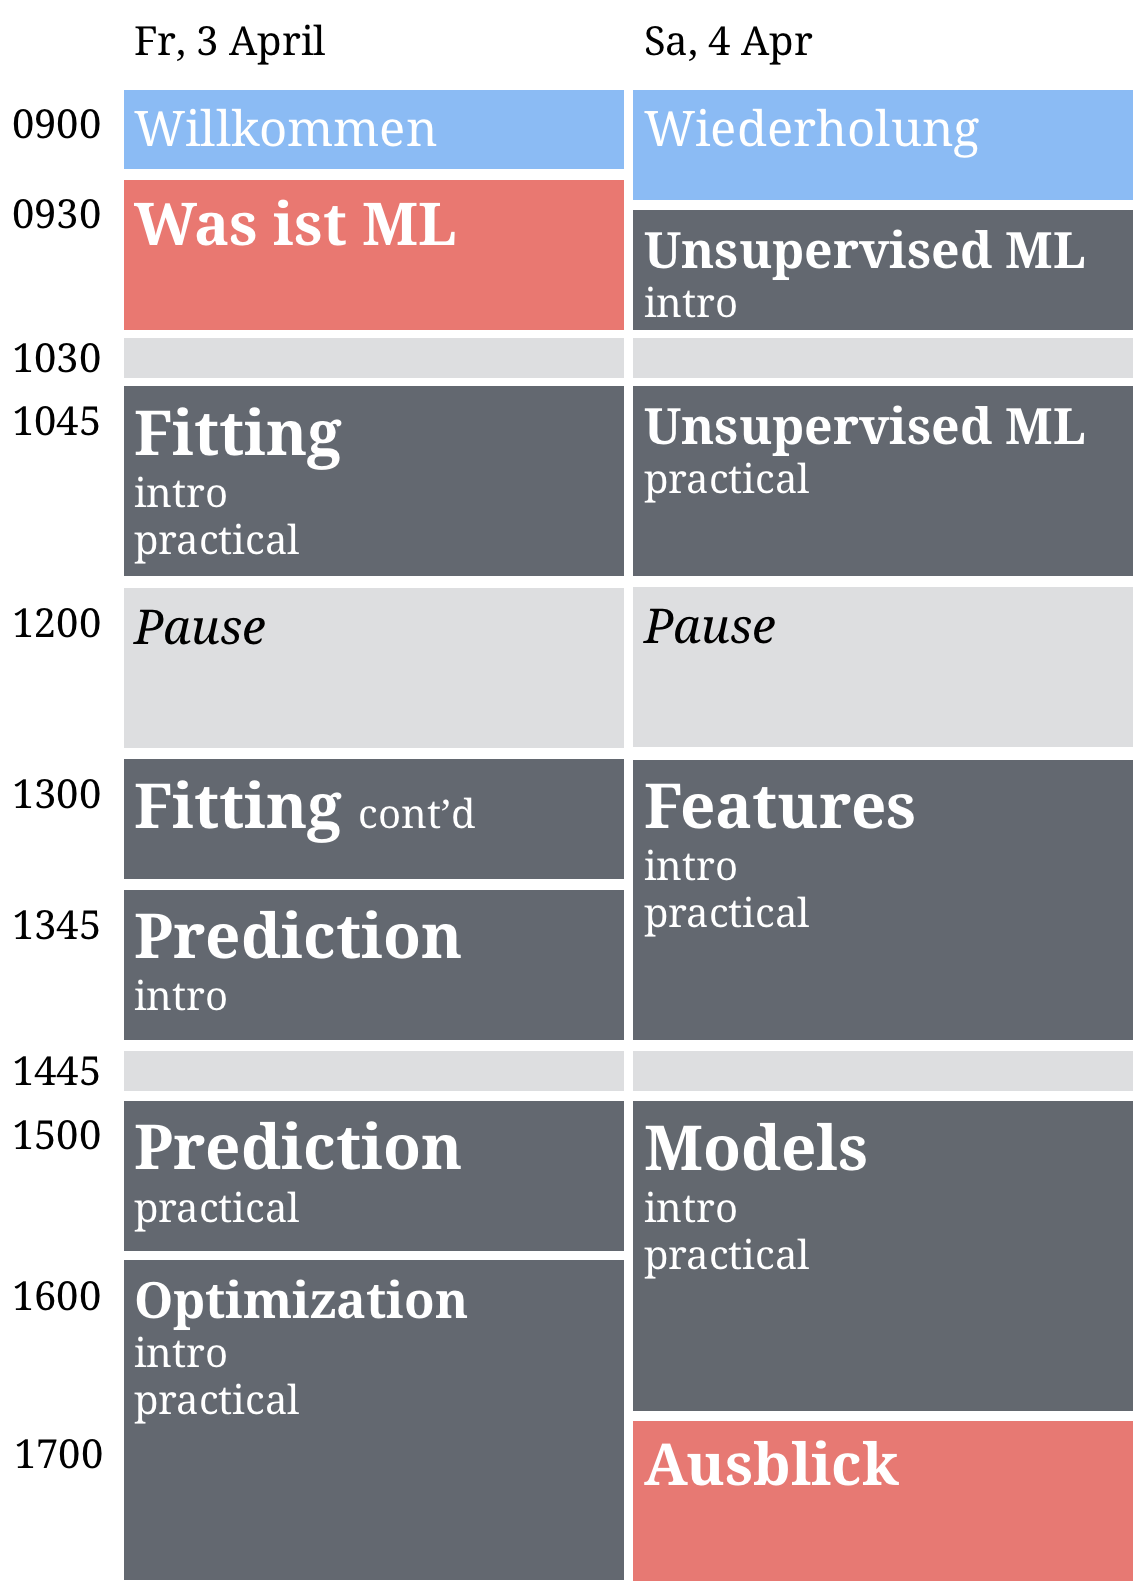
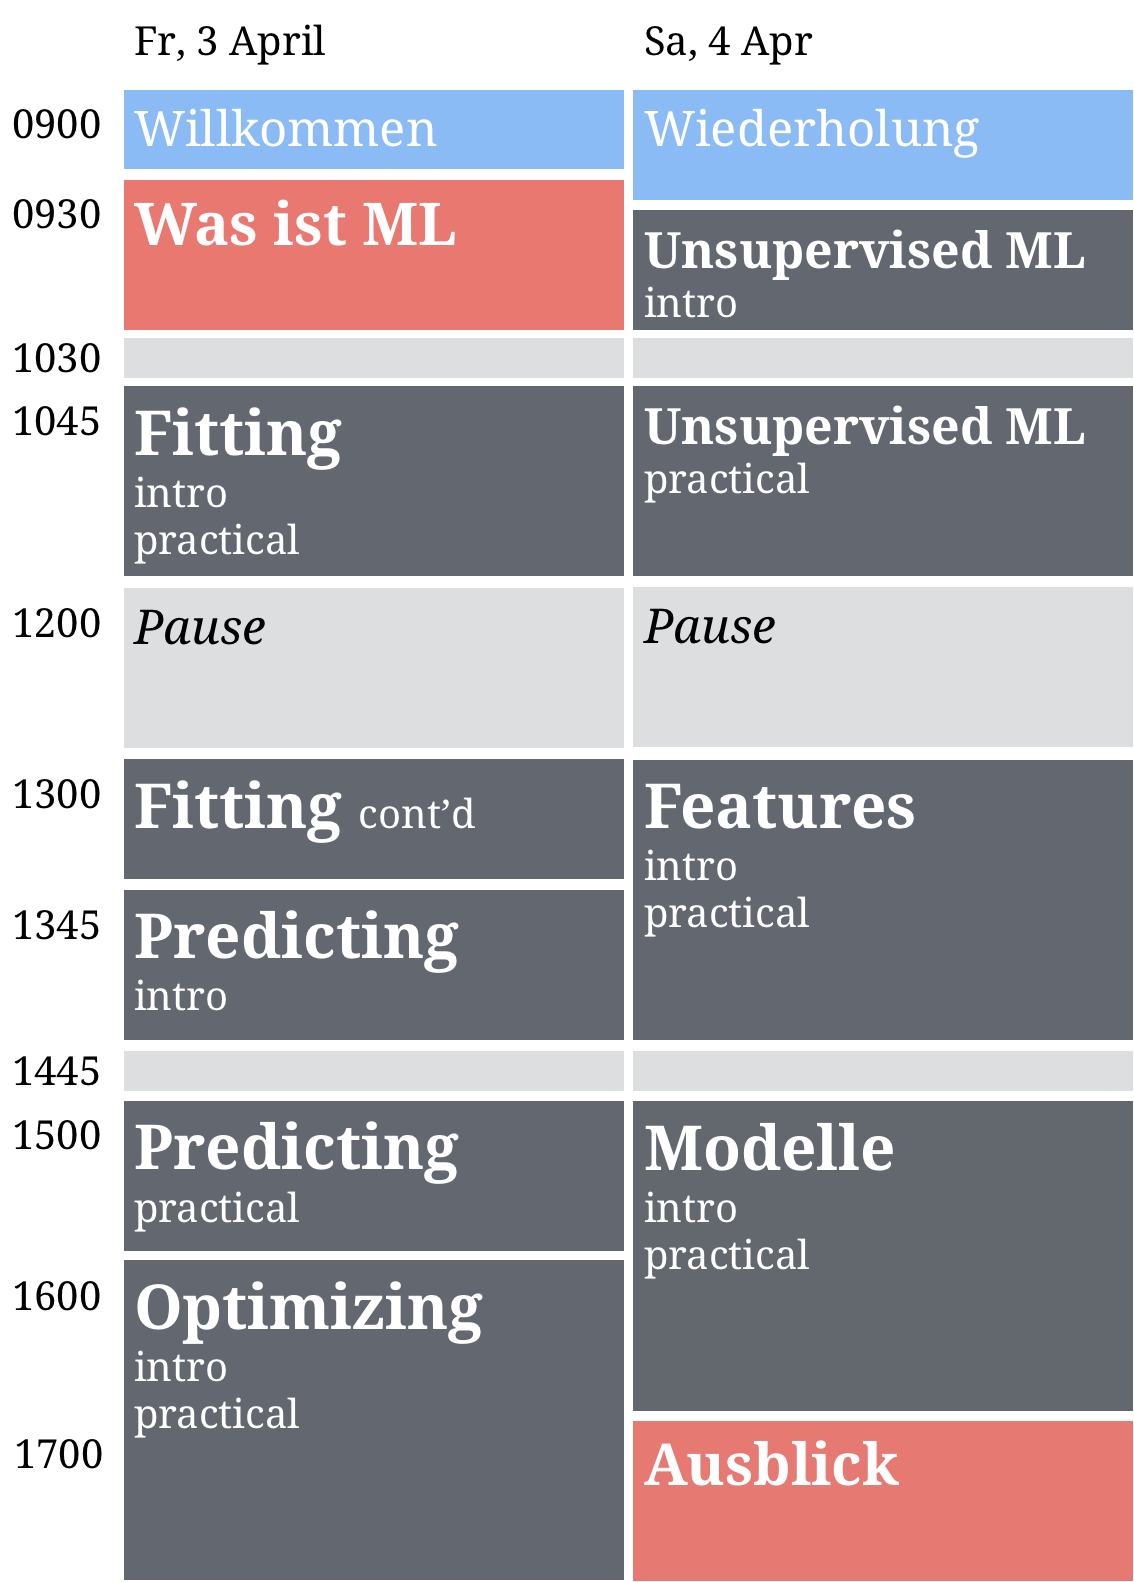
...

diff --git a/index.html b/index.html
@@ -9,10 +9,10 @@
 <meta name="generator" content="pandoc" />
 
 
-<meta name="author" content="             Basel R Bootcamp    October 2019" />
+<meta name="author" content="             The R Bootcamp    April 2020" />
 
 
-<title>Machine Learning with R</title>
+<title>Machine Learning mit R</title>
 
 <script src="index_files/jquery-1.11.3/jquery.min.js"></script>
 <meta name="viewport" content="width=device-width, initial-scale=1" />
@@ -190,26 +190,20 @@ $(document).ready(function () {
 
 
 
-<h1 class="title toc-ignore">Machine Learning with R</h1>
-<h4 class="author"><a href='https://therbootcamp.github.io'> <i class='fas fa-home' style='font-size:1em;'></i> </a> <a href='https://therbootcamp.github.io/ML_2019Oct/'> <i class='fas fa-clock' style='font-size:1em;' ></i> </a> <a href='mailto:therbootcamp@gmail.com'> <i class='fas fa-envelope' style='font-size: 1em;'></i> </a> <a href='https://www.linkedin.com/company/basel-r-bootcamp/'> <i class='fab fa-linkedin' style='font-size: 1em;'></i> </a> <a href='https://therbootcamp.github.io'> <font style='font-style:normal;font-size:20px;padding-left:5px'>Basel R Bootcamp</font> </a> <br> <img src='https://raw.githubusercontent.com/therbootcamp/therbootcamp.github.io/master/_sessions/_image/by-sa.png' style= 'height:17px;vertical-align:baseline'/><font style='font-style:normal;font-size:20px;padding-left:8px'>October 2019</font></h4>
+<h1 class="title toc-ignore">Machine Learning mit R</h1>
+<h4 class="author"><a href='https://therbootcamp.github.io'> <i class='fas fa-home' style='font-size:1em;'></i> </a> <a href='https://therbootcamp.github.io/ML_2020Apr/'> <i class='fas fa-clock' style='font-size:1em;' ></i> </a> <a href='mailto:therbootcamp@gmail.com'> <i class='fas fa-envelope' style='font-size: 1em;'></i> </a> <a href='https://www.linkedin.com/company/basel-r-bootcamp/'> <i class='fab fa-linkedin' style='font-size: 1em;'></i> </a> <a href='https://therbootcamp.github.io'> <font style='font-style:normal;font-size:20px;padding-left:5px'>The R Bootcamp</font> </a> <br> <img src='https://raw.githubusercontent.com/therbootcamp/therbootcamp.github.io/master/_sessions/_image/by-sa.png' style= 'height:17px;vertical-align:baseline'/><font style='font-style:normal;font-size:20px;padding-left:8px'>April 2020</font></h4>
 
 </div>
 
 
 <p><br></p>
-<div id="wifi" class="section level3">
-<h3>Wifi</h3>
-<div id="instructions" class="section level5">
-<h5><a href="https://raw.githubusercontent.com/therbootcamp/therbootcamp.github.io/master/_sessions/_image/wifi_instruct.png"><strong>Instructions</strong></a></h5>
-</div>
-</div>
 <div id="downloads" class="section level3">
 <h3>Downloads</h3>
 <div id="data-sets" class="section level5">
 <h5><a href="https://www.dropbox.com/s/v7s5kesbc10fcvq/baselrbootcamp_MLdata.zip?dl=1"><strong>Data sets</strong></a></h5>
 </div>
-<div id="pdfs" class="section level5">
-<h5><a href="https://www.dropbox.com/s/v1agyihirsvkpl0/MLwR2019Oct_pdfs.zip?dl=1"><strong>PDFs</strong></a></h5>
+<div id="cheatsheets" class="section level5">
+<h5><a href="https://www.dropbox.com/s/26kjubck26lbwnw/cheatsheets.pdf?dl=1"><strong>Cheatsheets</strong></a></h5>
 <p><br></p>
 </div>
 </div>
@@ -219,35 +213,35 @@ $(document).ready(function () {
 <thead>
 <tr class="header">
 <th align="left"></th>
-<th align="left">Day 1<br>Basics</th>
-<th align="left">Day 2<br>Advanced</th>
+<th align="left">Tag</th>
+<th align="left">Tag 2</th>
 </tr>
 </thead>
 <tbody>
 <tr class="odd">
 <td align="left">0</td>
-<td align="left">Welcome!<br><a href="_sessions/Welcome/Welcome.html">slides</a></td>
-<td align="left">Recap<br><a href="_sessions/Recap/Recap.html">slides</a></td>
+<td align="left">Willkommen!<br><a href="_sessions/Welcome/Welcome.html">Folien</a></td>
+<td align="left">Wiederholung<br><a href="_sessions/Recap/Recap.html">Folien</a></td>
 </tr>
 <tr class="even">
 <td align="left">1</td>
-<td align="left">What is ML?<br><a href="_sessions/WhatIsML/WhatIsML.html">slides</a></td>
-<td align="left">Optimization<br><a href="_sessions/Optimization/Optimization.html">slides</a>, <a href="_sessions/Optimization/Optimization_practical.html">practical</a></td>
+<td align="left">Was ist ML?<br><a href="_sessions/WhatIsML/WhatIsML.html">Folien</a></td>
+<td align="left">Unsupervised learning<br><a href="_sessions/Unsupervised/Unsupervised.html">Folien</a>, <a href="_sessions/Unsupervised/Unsupervised_practical.html">Practical</a></td>
 </tr>
 <tr class="odd">
 <td align="left">2</td>
-<td align="left">R for ML <br><a href="_sessions/RforML/RforML.html">slides</a>, <a href="_sessions/RforML/RforML_interactive.R">interactive</a></td>
-<td align="left">Features<br><a href="_sessions/Features/Features.html">slides</a>, <a href="_sessions/Features/Features_practical.html">practical</a></td>
+<td align="left">Fitting <br><a href="_sessions/Fitting/Fitting.html">Folien</a>, <a href="_sessions/Fitting/Fitting_practical.R">Practical</a></td>
+<td align="left">Features<br><a href="_sessions/Features/Features.html">Folien</a>, <a href="_sessions/Features/Features_practical.html">Practical</a></td>
 </tr>
 <tr class="even">
 <td align="left">3</td>
-<td align="left">Fitting<br><a href="_sessions/Fitting/Fitting.html">slides</a>, <a href="_sessions/Fitting/Fitting_practical.html">practical</a></td>
-<td align="left">Models<br><a href="_sessions/Models/Models.html">slides</a>, <a href="_sessions/Models/Models_practical.html">practical</a></td>
+<td align="left">Predicting<br><a href="_sessions/Prediction/Prediction.html">Folien</a>, <a href="_sessions/Prediction/Prediction_practical.html">Practical</a></td>
+<td align="left">Modelle<br><a href="_sessions/Models/Models.html">Folien</a>, <a href="_sessions/Models/Models_practical.html">Practical</a></td>
 </tr>
 <tr class="odd">
 <td align="left">4</td>
-<td align="left">Prediction <br><a href="_sessions/Prediction/Prediction.html">slides</a>, <a href="_sessions/Prediction/Prediction_practical.html">practical</a></td>
-<td align="left">Look ahead<br> <a href="_sessions/LookAhead/LookAhead.html">slides</a></td>
+<td align="left">Optimizing <br><a href="_sessions/Optimization/Optimization.html">Folien</a>, <a href="_sessions/Optimization/Optimization_practical.html">Practical</a></td>
+<td align="left">Ausblick<br> <a href="_sessions/LookAhead/LookAhead.html">Folien</a></td>
 </tr>
 </tbody>
 </table>
